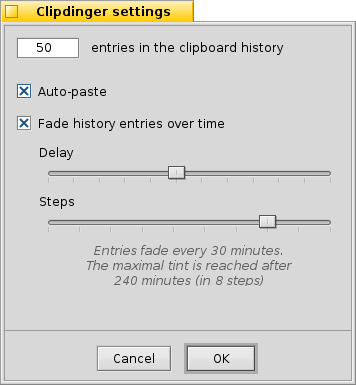
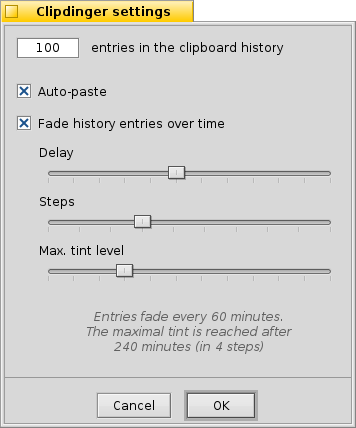
Update documentation.

diff --git a/ReadMe.html b/ReadMe.html
@@ -94,18 +94,24 @@ h3 {
 for <a href="http://www.haiku-os.org">Haiku</a><br />
 <i>by Humdinger</i></p>
 <hr />
-<p id="index"><a href="#tips">Tips &amp; Tricks</a> &mdash; <a href="#download">Download</a> &mdash; <a href="#bugs_feedback">Bugreports &amp; Feedback</a> &mdash; <a href="#thanks">Thanks</a> &mdash; <a href="#history">History</a></p>
+<p id="index"><a href="#history-favorites">History &amp; Favorites</a> &mdash; <a href="#settings">Settings</a><br />
+<a href="#tips">Tips &amp; Tricks</a> &mdash; <a href="#download">Download</a> &mdash; <a href="#bugs_feedback">Bugreports &amp; Feedback</a> &mdash; <a href="#thanks">Thanks</a> &mdash; <a href="#history">History</a></p>
 </div>
 <hr />
 <p><br /></p>
 <p>Clipdinger is a small tool to manage a history of the system clipboard. It solves the problem that you often have to paste some text you've just recently copied to the clipboard, but that has been replaced by something you've copied more recently... It also saves the history so it'll appear just as you left it on the last shutdown.</p>
 <p>If you want to paste some text that isn't in the clipboard any more, simply hit <span class="key">SHIFT</span> <span class="key">ALT</span> <span class="key">V</span> to summon the Clipdinger window. Here you can select an entry with the <span class="key">CursorUp/Down</span> keys and put it into the clipboard or auto-paste it by hitting <span class="key">RETURN</span>.<br />
 <span class="key">ESCAPE</span> or <span class="key">ALT</span> <span class="key">W</span> aborts and minimizes the Clipdinger window.</p>
-<p>This is the main window:</p>
+
+<h2>
+<a href="#"><img src="images/up.png" style="border:none;float:right" alt="index" /></a>
+<a id="history-favorites" name="history-favorites">History &amp; Favorites</a></h2>
+<p>Clipdinger starts minimized, because it sits in the background a just monitors the system clipboard. When activated by pressing <span class="key">SHIFT</span> <span class="key">ALT</span> <span class="key">V</span> its main window pops up:</p>
 <div align = "center">
 <img src="./images/clipdinger.png" alt="Clipdinger main window" />
 </div>
 <p>To the left is a history of your past clippings (empty, of course, when started for the first time). For easier orientation, the icon of the app that a clip was copied from is drawn to the left of the text. The top entry is always what's currently in the clipboard.</p>
+<p>If you have the <span class="menu">Fade history entries over time</span> option activated, there'll also be a checkbox <span class="menu">Pause fading</span> below the history list. You find more on that farther down, where Clipdinger's settings are discussed.</p>
 
 <p>To the right is a list of saved favorites. You right-click on an entry in the history to the left, and choose <span class="menu">Add to favorites</span> to make a clipping a favorite. The first 12 entries have automatically an <span class="key">F-key</span> assigned for even quicker pasting of your most used clippings.</p>
 <p>You can adjust the size of history/favorites by grabbing the dotted line between them. You can also completely collapse one of those lists. The <span class="key">F-keys</span> will still work, even if your favorites are collapsed.</p>
@@ -113,6 +119,9 @@ for <a href="http://www.haiku-os.org">Haiku</a><br />
 <span class="key">DEL</span> or choosing <span class="menu">Remove favorite</span> from the context menu eliminates an entry. <span class="menu">Edit title</span> let's you choose another title for it. By default, the contents of the clip is displayed, just like for the history list on the left.</p>
 <p>You can quickly switch between history and favorites lists with <span class="key">CursorRight/Left</span>.</p>
 
+<h2>
+<a href="#"><img src="images/up.png" style="border:none;float:right" alt="index" /></a>
+<a id="settings" name="settings">Settings</a></h2>
 <p>This is the settings window, summoned with <span class="menu">Settings...</span> from the <span class="menu">History</span> menu:</p>
 <div align = "center">
 <img src="./images/clipdinger-settings.png" alt="Clipdinger settings" />
@@ -122,12 +131,17 @@ Keep in mind that every clipping is kept in memory and if you copy many large bl
 <p>Once the limit of the history is reached, the oldest entry is removed automatically to make room for the new clipping.</p>
 <p>You can remove an entry by selecting it and pressing <span class="key">DEL</span>  or choose <span class="menu">Remove clip</span> from the context menu. You remove the complete clipboard history with <span class="menu">Clear history</span> from the <span class="menu">History</span> menu.</p>
 <p><span class="menu">Auto-paste</span> will put the clipping you've chosen via double-click or <span class="key">RETURN</span> into the window that was active before you have summoned Clipdinger.</p>
-<p>The other settings belong to the fading feature: When the checkbox <span class="menu">Fade history entries over time</span> is active, entries get darker as time ticks on. You can set the intervall that entries are being tinted (<span class="menu">Delay</span>) and by how much they are tinted (<span class="menu">Steps</span>). Below the sliders is a summary of your setting in plain English.</p>
+<p>The other settings belong to the fading feature: When the checkbox <span class="menu">Fade history entries over time</span> is active, entries get darker as time ticks on. You can set the interval that entries are being tinted (<span class="menu">Delay</span>) and by how much they are tinted (<span class="menu">Steps</span>). The third slider sets the <span class="menu">Max. tint level</span>, i.e. how dark an entry can get.<br />
+Below the sliders is a summary of your setting in plain English.</p>
 <p>If you leave your computer or just know that you won't do any copy&amp;paste for a longer time, you can simply check the <span class="menu">Pause fading</span> checkbox below the history list of the main window to prevent the entries in the history from fading. Note, that this checkbox is only visible if the fading option in the settings is active.</p>
 <h2>
 <a href="#"><img src="images/up.png" style="border:none;float:right" alt="index" /></a>
 <a id="tips" name="tips">Tips &amp; Tricks</a></h2>
-<p>Obviously, Clipdinger can only keep a clipboard history while it's running. You should therefore create a link to it in the  <span class="path">/boot/home/config/settings/boot/launch/</span> folder. Then it gets started automatically on every boot-up.</p>
+<ul>
+<li><p>Obviously, Clipdinger can only keep a clipboard history while it's running. You should therefore create a link to it in the  <span class="path">/boot/home/config/settings/boot/launch/</span> folder. Then it gets started automatically on every boot-up.</p></li>
+<li><p>All changes in the settings window can be viewed live in the main window. To find the right fading settings for you, it's best to keep working normally for some time to fill the history and then just play around with the sliders until you're satisfied.</p></li>
+<li><p>Clipdinger's <span class="menu">Auto-paste</span> feature can be a bit tricky: It doesn't know in which application's window you pressed <span class="key">SHIFT</span> <span class="key">ALT</span> <span class="key">V</span> for it to pop up. With activated auto-paste, it simply pastes into last window that was active before you hit <span class="key">ENTER</span> or double-clicked an entry. So, avoid detours...</p></li>
+</ul>
 
 <h2>
 <a href="#"><img src="images/up.png" style="border:none;float:right" alt="index" /></a>
@@ -175,6 +189,7 @@ Also, thanks to everyone that contributed translations for Clipdinger.</p>
 <li>Bug fixes and optimizations.</li>
 <li>Added favorites feature.</li>
 <li>Added a "Pause fading" checkbox.</li>
+<li>Added a setting for the maximal fading tint.</li>
 </ul>
 </body>
 </html>

diff --git a/Readme.md b/Readme.md
@@ -7,11 +7,15 @@ Clipdinger is a small tool to manage a history of the system clipboard. It solve
 If you want to paste some text that isn't in the clipboard any more, simply hit _SHIFT_ + _ALT_ + _V_ to summon the Clipdinger window. Here you can select an entry with the _CursorUp/Down_ keys and put it into the clipboard or auto-paste it by hitting _RETURN_.
 _ESCAPE_  or _ALT_ + _W_ aborts and minimizes the Clipdinger window.
 
-This is the main window:
+### History & Favorites
+
+Clipdinger starts minimized, because it sits in the background a just monitors the system clipboard. When activated by pressing _SHIFT_ + _ALT_ + _V_ its main window pops up:
 
 ![screenshot](./images/clipdinger.png)
 
 To the left is a history of your past clippings (empty, of course, when started for the first time). For easier orientation, the icon of the app that a clip was copied from is drawn to the left of the text. The top entry is always what's currently in the clipboard.
+
+If you have the _Fade history entries over time_ option activated, there'll also be a checkbox _Pause fading_ below the history list. You find more on that farther down, where Clipdinger's settings are discussed.
 
 To the right is a list of saved favorites. You right-click on an entry in the history to the left, and choose Add to favorites to make a clipping a favorite. The first 12 entries have automatically an _F-key_ assigned for even quicker pasting of your most used clippings.
 
@@ -21,6 +25,8 @@ The _Move up_ and _Move down_ buttons allow for re-ordering the currently select
 _DEL_ or choosing _Remove favorite_ from the context menu eliminates an entry. _Edit title_ let's you choose another title for it. By default, the contents of the clip is displayed, just like for the history list on the left.
 
 You can quickly switch between history and favorites lists with _CursorRight/Left_.
+
+### Settings
 
 This is the settings window, summoned with _Settings..._ from the _History_ menu:
 
@@ -35,13 +41,18 @@ You can remove an entry by selecting it and pressing _DEL_ or choose _Remove cli
 
 _Auto-paste_ will put the clipping you've chosen via double-click or _RETURN_ into the window that was active before you have summoned Clipdinger.
 
-The other settings belong to the fading feature: When the checkbox _Fade history entries over time_ is active, entries get darker as time ticks on. You can set the intervall that entries are being tinted (_Delay_) and by how much they are tinted (_Steps_). Below the sliders is a summary of your setting in plain English.
+The other settings belong to the fading feature: When the checkbox _Fade history entries over time_ is active, entries get darker as time ticks on. You can set the intervall that entries are being tinted (_Delay_) and by how much they are tinted (_Steps_). The third slider sets the _Max. tint level_, i.e. how dark an entry can get.
+Below the sliders is a summary of your setting in plain English.
 
 If you leave your computer or just know that you won't do any copy&paste for a longer time, you can simply check the _Pause fading_ checkbox below the history list of the main window to prevent the entries in the history from fading. Note, that this checkbox is only visible if the fading option in the settings is active.
 
 ### Tips & Tricks
 
-Obviously, Clipdinger can only keep a clipboard history while it's running. You should therefore create a link to it in the `/boot/home/config/settings/boot/launch/` folder. Then it gets started automatically on every boot-up.
+*   Obviously, Clipdinger can only keep a clipboard history while it's running. You should therefore create a link to it in the `/boot/home/config/settings/boot/launch/` folder. Then it gets started automatically on every boot-up.
+*   All changes in the settings window can be viewed live in the main window. To find the right fading settings for you, it's best to keep working normally for some time to fill the history and then just play around with the sliders until you're satisfied.
+*   Clipdinger's _Auto-paste_ feature can be a bit tricky: It doesn't know in which window you pressed _SHIFT_ + _ALT_ + _V_ for it to pop up. With activated auto-paste, it simply pastes into last window that was active before you hit _ENTER_ or double-clicked an entry. So, avoid detours...
+
+
 
 ### Download
 
@@ -82,3 +93,4 @@ Also, thanks to everyone that contributed translations for Clipdinger.
 *   Bug fixes and optimizations.
 *	Added favorites feature.
 *   Added a "Pause fading" checkbox.
+*   Added a setting for the maximal fading tint.
